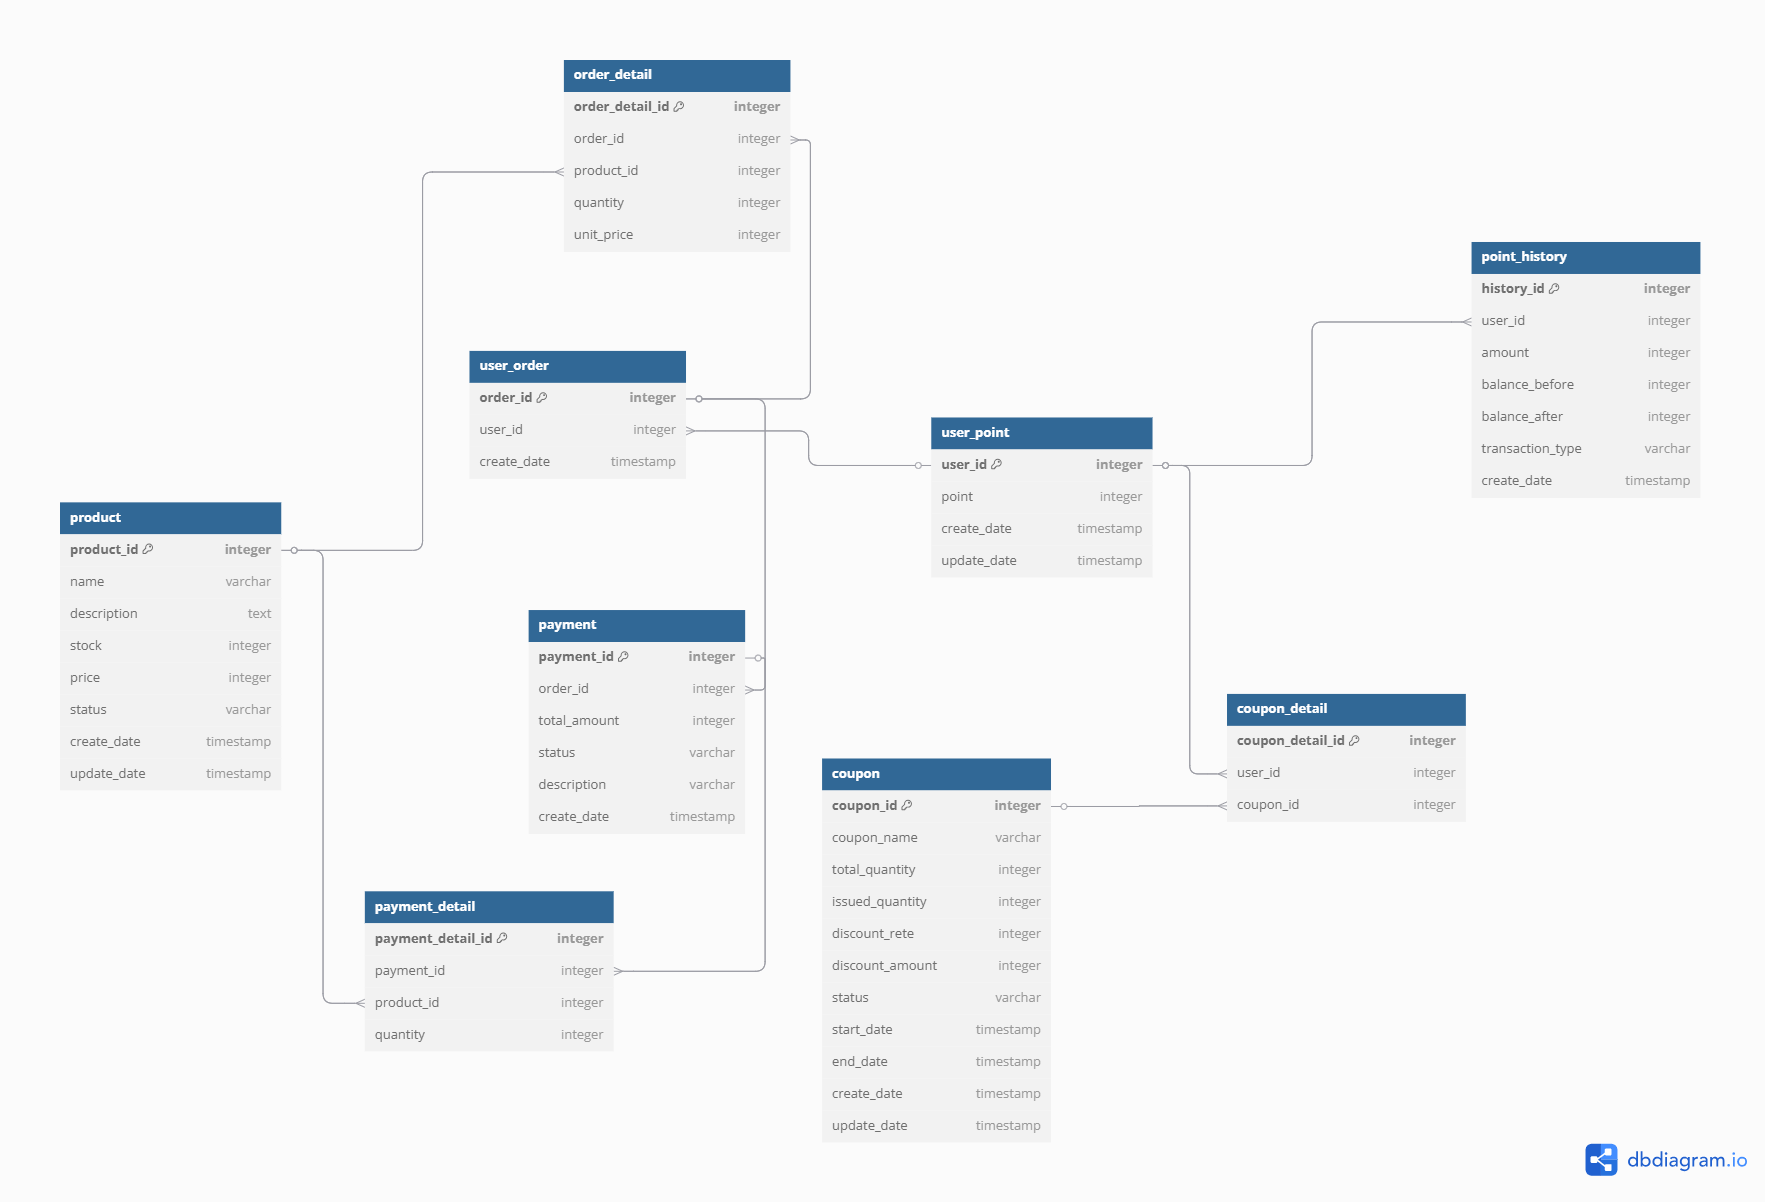
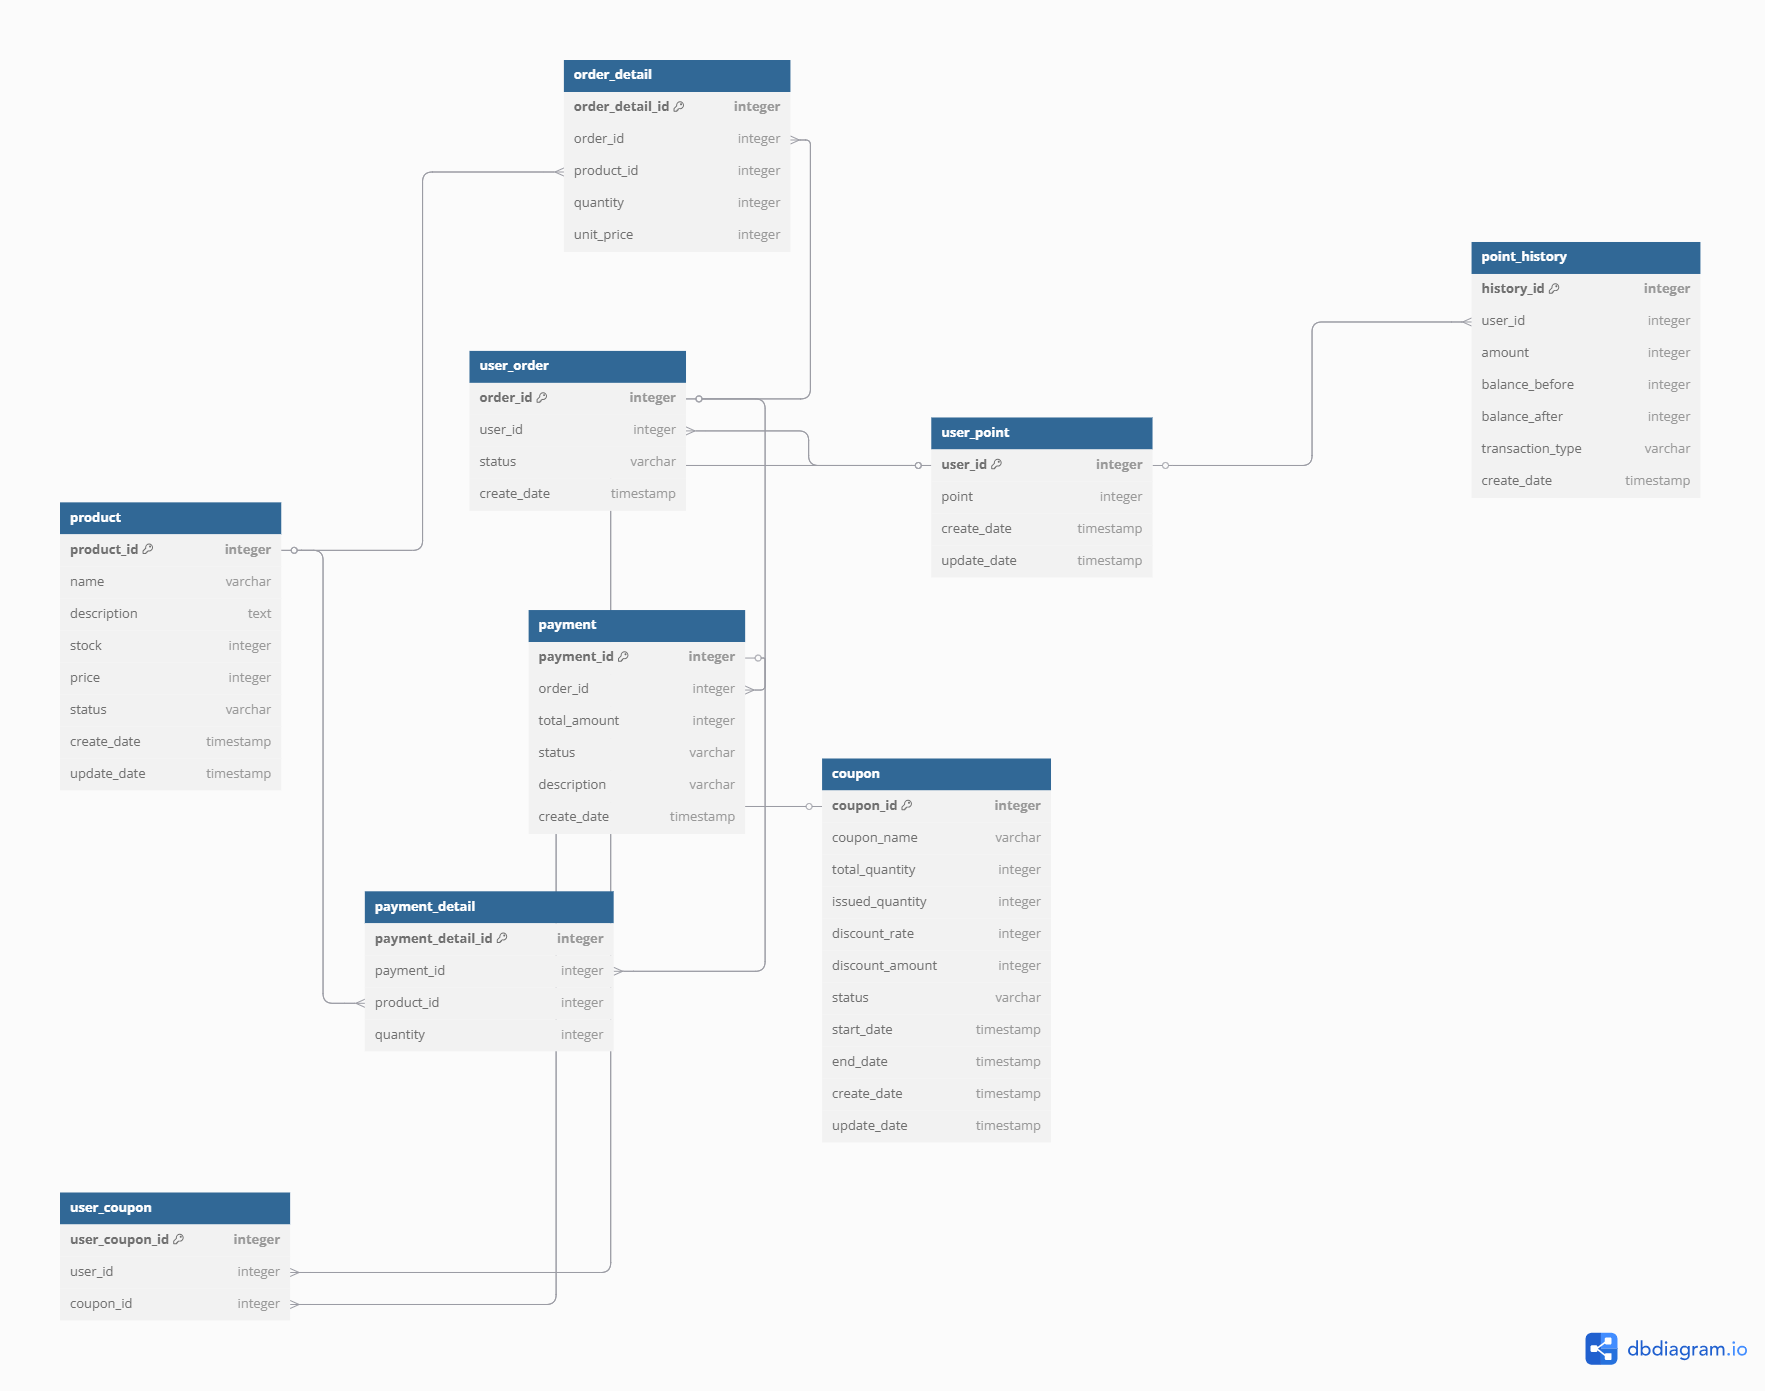
docs: ERD 설계 수정 - 사용자 주문 테이블에 status 컬럼 추가 (주문 상태에 따라 재고 점유를 하기 위함, 상태 예시: 대기, 성공,실패) - 쿠폰 테이블 컬럼 오타 수정 (discount_rete -> discount_rate) - 사용자 쿠폰 테이블명 수정 (coupon_detail -> user_coupon)

diff --git a/docs/ERD 설계.md b/docs/ERD 설계.md
@@ -36,6 +36,7 @@ Table product{
 Table user_order{
   order_id integer [primary key] // 주문 id
   user_id integer [ref: > user_point.user_id] // 사용자 id
+  status varchar // 주문 상태 (대기, 성공, 실패) -> 대기 시 재고 점유, 실패는 결제를 5분이내 안한 경우
   create_date timestamp // 주문 생성일
 }
 
@@ -52,7 +53,7 @@ Table payment{
   order_id integer [ref: > user_order.order_id] // 주문 id
   total_amount integer // 총 결제 금액  
   status varchar // 결제 상태 (예: 성공, 실패, 대기)
-  description varchar // 결제 실패 시 사유 입력
+  description varchar // 결제 실패 시 설명 추가
   create_date timestamp // 결제 일자  
 }
 
@@ -70,7 +71,7 @@ Table coupon{
   coupon_name varchar // 쿠폰 명 
   total_quantity integer // 쿠폰의 총 발급 수량 (선착순)
   issued_quantity integer // 실제 발급된 수량 
-  discount_rete integer // 할인율
+  discount_rate integer // 할인율
   discount_amount integer // 금액 할인 (예: 5000원 할인)
   status varchar // 쿠폰 상태 (예: 활성, 종료)
   start_date timestamp // 쿠폰 발급 시작일 
@@ -79,8 +80,8 @@ Table coupon{
   update_date timestamp // 쿠폰 수정일 
 }
 
-Table coupon_detail{
-  coupon_detail_id integer [primary key] // 쿠폰 상세 id 
+Table user_coupon{
+  user_coupon_id integer [primary key] // 쿠폰 상세 id 
   user_id integer [ref: > user_point.user_id] // 사용자 id 
   coupon_id integer [ref: > coupon.coupon_id] // 쿠폰 id 
 }
